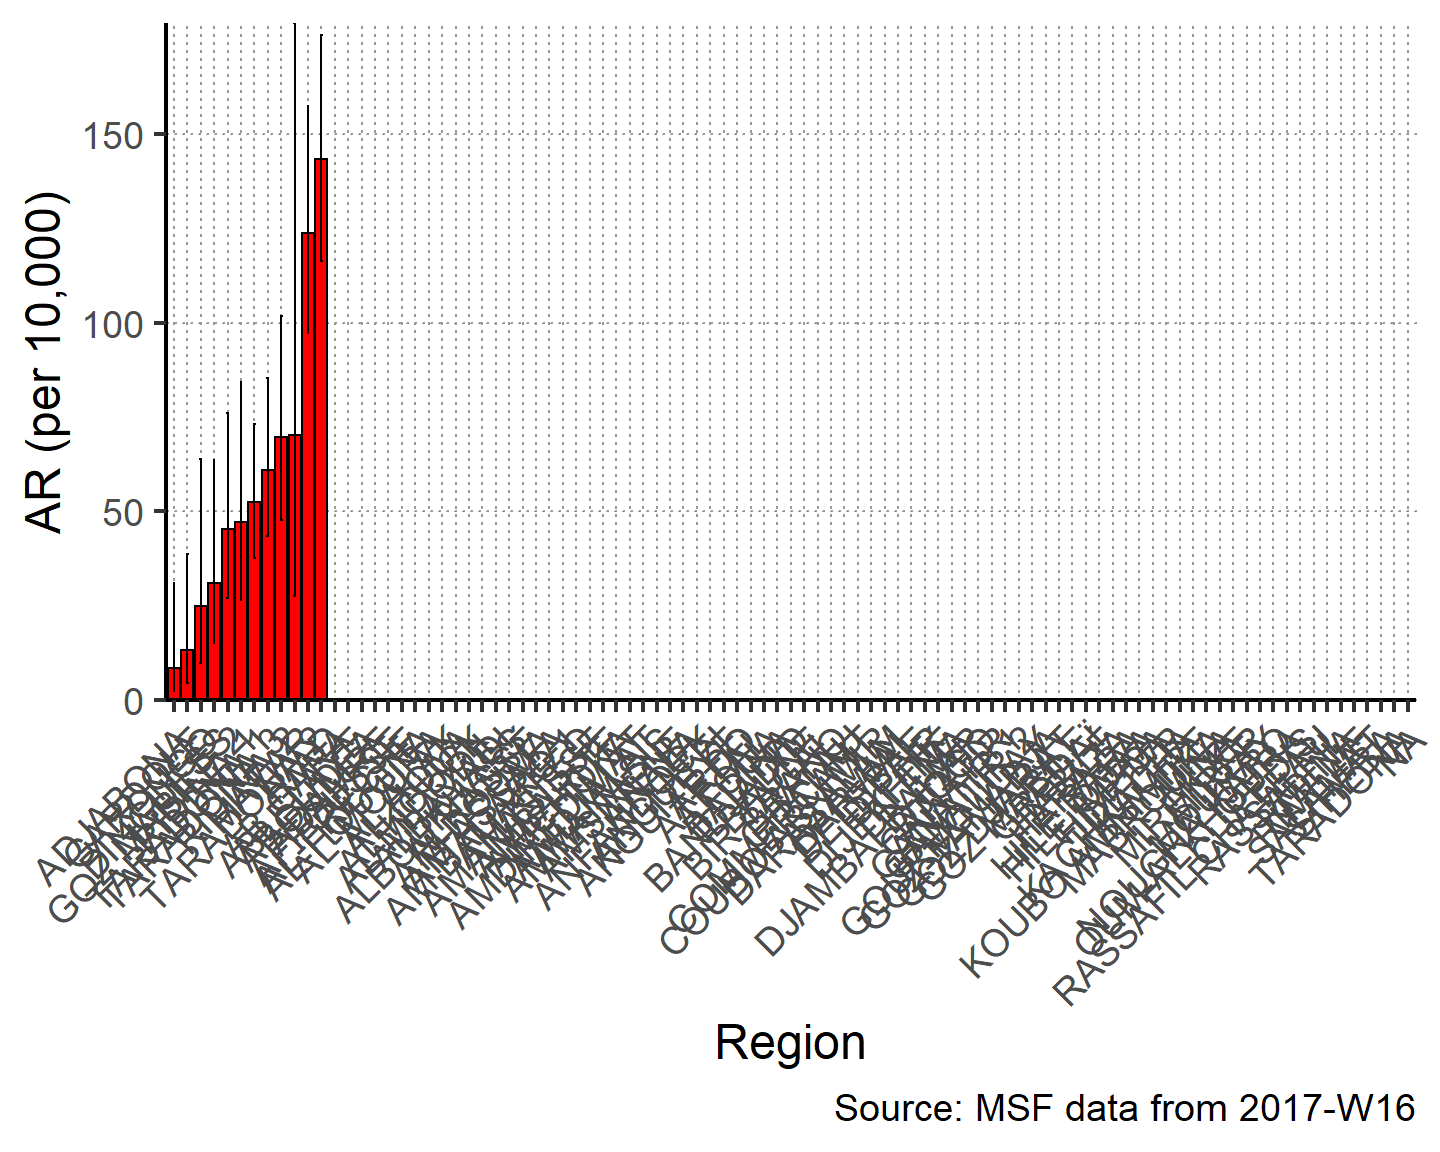
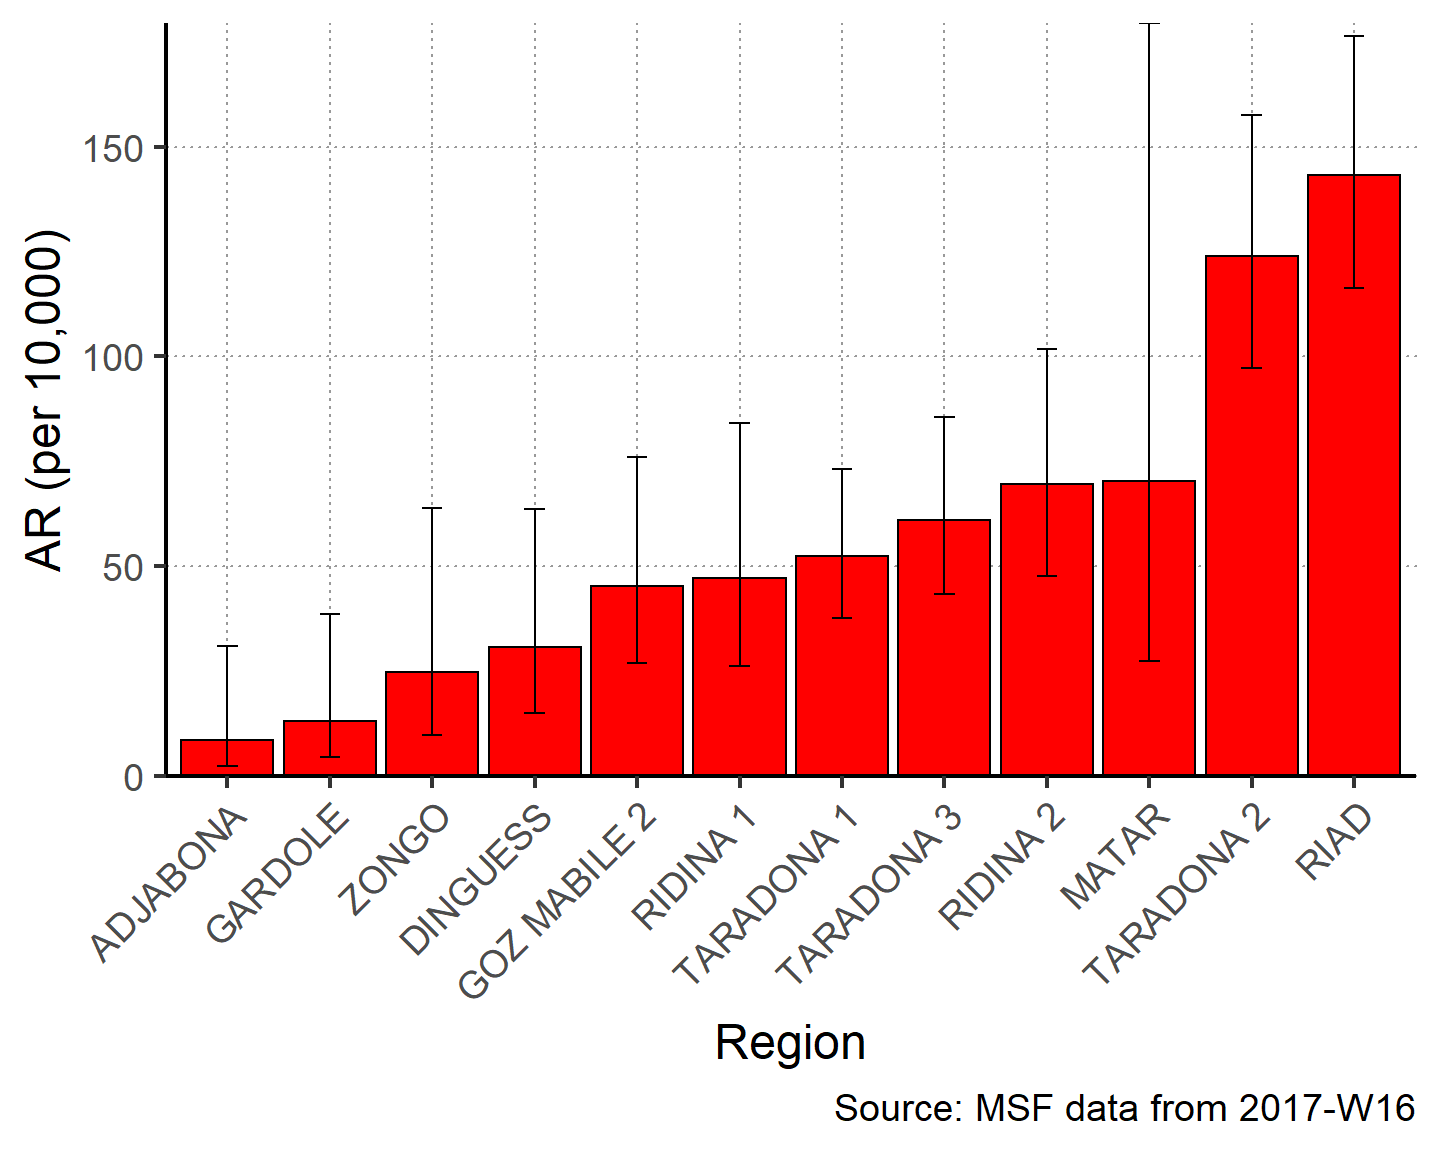
Miscellaneous small changes

diff --git a/content/training/Walk-through/place_analyses.html b/content/training/Walk-through/place_analyses.html
@@ -7,8 +7,8 @@ weight: 14
 
 
 <p>TODO: introduction to place analyses</p>
-<div id="non-map-place-analyses" class="section level3">
-<h3>Non-map place analyses</h3>
+<div id="tabular-place-analyses-non-maps" class="section level3">
+<h3>Tabular place analyses (non-maps)</h3>
 <p>To get a basic <strong>descriptive table of cases by region</strong> (which in our case was originally the variable <em>quartier</em> from the raw linelist), we use tab_linelist() on the variable patient_origin, with columns by patient_facility_type (inpatient, outpatient, or missing).</p>
 <pre class="r"><code># Descriptive table of cases by region and facility type
 tab_linelist(linelist_cleaned, patient_origin, 
@@ -1541,9 +1541,8 @@ tab_linelist(filter(linelist_cleaned,
 </table>
 <p><strong>A table of attack rates by region may be useful</strong></p>
 <p><strong>First</strong>, like when we calculated attack rate by epiweek in the time_analysis section, the cases are counted by patient_origin. This list of counts is then <strong>joined</strong> to the imported population data for each region <strong>joined by patient_origin (the name of the region/quartier)</strong>. These data are stored in the object <code>cases</code>.</p>
-<p>*Recall that this <strong>join</strong> requires <strong>exact matches</strong> between patient_origin values in <code>linelist_cleaned$patient_origin</code> and <code>population_data_region$patient_origin</code> to match a region’s cases to its population (read more about joins TODO HERE). In the data cleaning steps we converted the values in linelist_cleaned to all capital letters to match those in population_data_region.</p>
-<p><strong>TODO - Note: the attack_rate function currently does not show cases in the table if there is no population denominator. For example, the table below shows TARADONA quartier with no cases, when in reality it has 235. Also, for those regions with no cases or no population, the attack rate defaults to 10,000 - which is obviously not true.</strong></p>
-<p>The “ar” object saves the counts, population, and attack rate calculations along with modified column names.</p>
+<p>*Recall that this <strong>join</strong> requires <strong>exact matches</strong> between patient_origin values in <code>linelist_cleaned$patient_origin</code> and <code>population_data_region$patient_origin</code> to match a region’s cases to its population (read more about joins in the advanced R Basics page). In the data cleaning steps we converted the values in linelist_cleaned to all capital letters to match those in population_data_region.<br />
+The “ar” object saves the counts, population, and attack rate calculations along with modified column names.</p>
 <p>Finally, the table is created with kable() and displayed.</p>
 <pre class="r"><code>## - [ ] consider facet wrapping by an overarching unit if have many regions (e.g. by province)
 cases &lt;- count(linelist_cleaned, patient_origin) %&gt;%   # cases for each region
@@ -2227,8 +2226,11 @@ ar %&gt;%
 </tbody>
 </table>
 <p>You could then also plot this on a bar chart with confidence intervals.</p>
-<p><strong>TODO: Note: Until the bug in attack_rate() is fixed, the bar chart will not appear correctly, as it shows all the regions that are missing attack rates as having ARs of 10,000.</strong></p>
-<pre class="r"><code># plot with the region on the x axis sorted by increasing ar
+<p><em>Note: There are many quartiers without population denominators that will make the graph difficult to read. Thus, we first filter <code>ar</code> to remove those using the opposite (!) of the is.na() function (see R Basics page on operators). Note that if this step is added, any quartiers with missing denominators will not appear in the graph.</em></p>
+<pre class="r"><code># filter ar for non-zero quartiers
+ar &lt;- filter(ar, !is.na(`AR (per 10,000)`))
+
+# plot with the region on the x axis sorted by increasing ar
 # ar value on the y axis 
 ggplot(ar, aes(x = reorder(Region, `AR (per 10,000)`),
                y = `AR (per 10,000)`)) + 
@@ -2239,8 +2241,6 @@ ggplot(ar, aes(x = reorder(Region, `AR (per 10,000)`),
   labs(x = &quot;Region&quot;, y = &quot;AR (per 10,000)&quot;, 
        captions = paste0(&quot;Source: MSF data from &quot;, reporting_week)) + 
   epicurve_theme</code></pre>
-<pre><code>## Warning: Removed 81 rows containing missing values (position_stack).</code></pre>
-<pre><code>## Warning: Removed 81 rows containing missing values (geom_errorbar).</code></pre>
 <p><img src="/training/Walk-through/place_analyses_files/figure-html/bar_attack_rate_by_region-1.png" width="720" /></p>
 <p>You could also <strong>table mortality rate by region</strong>. A few things to note:</p>
 <ul>
@@ -2248,7 +2248,6 @@ ggplot(ar, aes(x = reorder(Region, `AR (per 10,000)`),
 </li>
 <li>The mortality_rate() step calculates mortality rates for the regions that had a death.</li>
 </ul>
-<p><strong>TODO: Note: The table only shows the regions that had a death, but there is a bug and the deaths show as missing if there is no population denominator.</strong></p>
 <pre class="r"><code>deaths &lt;- group_by(linelist_cleaned, patient_origin) %&gt;%
   filter(grepl(&quot;Died&quot;, exit_status2)) %&gt;% 
   summarise(deaths = n()) %&gt;% # count deaths by region
@@ -2439,8 +2438,6 @@ ggplot() +
   scale_fill_brewer(drop = FALSE, palette = &quot;OrRd&quot;, name = &quot;AR (per 10,000)&quot;) + 
   geom_sf_text(data = mapsub, aes(label = Name), colour = &quot;grey50&quot;) + # label polygons
   theme_void() # remove coordinates and axes</code></pre>
-<pre><code>## Warning in st_point_on_surface.sfc(sf::st_zm(x)): st_point_on_surface may
-## not give correct results for longitude/latitude data</code></pre>
 <p><img src="/training/Walk-through/place_analyses_files/figure-html/unnamed-chunk-6-1.png" width="720" /></p>
 <p>Lastly, <strong>there is an efficient way to create attack rate maps and bar plots of incidence for each epiweek</strong>. Use a <strong>“for loop”</strong> to run the same code for every epi week.</p>
 <p><strong>A for loop is used to iterate over (perform the same actions to) every value in a vector.</strong> In this case, we want to make the map and bar chart for each region. You can read more about for loops in the Advanced section of the R Basics pages, or <a href="">here</a>.</p>
@@ -2532,22 +2529,6 @@ for (i in unique(cases$epiweek)) {
     )
   )
 }</code></pre>
-<pre><code>## Warning: Removed 80 rows containing missing values (position_stack).</code></pre>
-<pre><code>## Warning: Removed 81 rows containing missing values (geom_errorbar).</code></pre>
-<pre><code>## Warning: Removed 80 rows containing missing values (position_stack).</code></pre>
-<pre><code>## Warning: Removed 81 rows containing missing values (geom_errorbar).</code></pre>
-<p><img src="/training/Walk-through/place_analyses_files/figure-html/unnamed-chunk-7-1.png" width="720" /></p>
-<pre><code>## Warning: Removed 80 rows containing missing values (position_stack).
-
-## Warning: Removed 81 rows containing missing values (geom_errorbar).</code></pre>
-<p><img src="/training/Walk-through/place_analyses_files/figure-html/unnamed-chunk-7-2.png" width="720" /></p>
-<pre><code>## Warning: Removed 80 rows containing missing values (position_stack).
-
-## Warning: Removed 81 rows containing missing values (geom_errorbar).</code></pre>
-<p><img src="/training/Walk-through/place_analyses_files/figure-html/unnamed-chunk-7-3.png" width="720" /></p>
-<pre><code>## Warning: Removed 80 rows containing missing values (position_stack).
-
-## Warning: Removed 81 rows containing missing values (geom_errorbar).</code></pre>
-<p><img src="/training/Walk-through/place_analyses_files/figure-html/unnamed-chunk-7-4.png" width="720" /><img src="/training/Walk-through/place_analyses_files/figure-html/unnamed-chunk-7-5.png" width="720" /><img src="/training/Walk-through/place_analyses_files/figure-html/unnamed-chunk-7-6.png" width="720" /></p>
+<p><img src="/training/Walk-through/place_analyses_files/figure-html/unnamed-chunk-7-1.png" width="720" /><img src="/training/Walk-through/place_analyses_files/figure-html/unnamed-chunk-7-2.png" width="720" /><img src="/training/Walk-through/place_analyses_files/figure-html/unnamed-chunk-7-3.png" width="720" /><img src="/training/Walk-through/place_analyses_files/figure-html/unnamed-chunk-7-4.png" width="720" /><img src="/training/Walk-through/place_analyses_files/figure-html/unnamed-chunk-7-5.png" width="720" /><img src="/training/Walk-through/place_analyses_files/figure-html/unnamed-chunk-7-6.png" width="720" /></p>
 </div>
 </div>

diff --git a/content/training/Walk-through/clean_data.html b/content/training/Walk-through/clean_data.html
@@ -102,8 +102,8 @@ linelist_cleaned$age_group_mon &lt;- age_categories(linelist_cleaned$age_months,
 linelist_cleaned$age_group &lt;- age_categories(linelist_cleaned$age_years, 
                                              breakers = c(0, 3, 15, 30, 45))</code></pre>
 </div>
-<div id="cleaning-categorical-variables" class="section level3">
-<h3>Cleaning categorical variables</h3>
+<div id="clean-categorical-variables" class="section level3">
+<h3>Clean categorical variables</h3>
 <p>While the template directs us to next create a DIED variable based on exit_status containing the characters “Dead”, we must first <strong>clean our exit_status variable, which is currrently in French</strong>.</p>
 <p><strong>Use case_when() to assign new values for a new exit_status2 variable</strong>, as in the code below. The code uses the function case_when() to re-define linelist_cleaned as itself, but mutated to include the new variable exit_status2. The values in exit_status2 are based on the values in exit_status, such that when exist_status == “Décédé”, the value in exit_status2 is “Died”, and so on.</p>
 <p>As you modify this chunk for your own situation, remember to include commas at the end of each case_when() line (except the last one), and that <strong>each left-hand side (LHS) of the ~ must be a logical statement</strong>, not just a value. Best is to write case_when() lines from most specific at top to most general at bottom. You can read more about case_when() <a href="https://dplyr.tidyverse.org/reference/case_when.html">here</a>.</p>

diff --git a/content/training/Walk-through/dataset_alignment.html b/content/training/Walk-through/dataset_alignment.html
@@ -54,7 +54,7 @@ colnames(linelist_cleaned) &lt;- cleaned_colnames</code></pre>
 then you likely forgot to comment (#) the line for a variable you did not use.</p>
 <p>And now you can see the result:</p>
 <p><img src="/images/AJS_Rename_Variables_Proof.png" alt="rename variables proof", width = "100%"></p>
-<p>Below are the variable assignments used in this example, to reference when building your template. You can copy the entire code chunk using the copy icon in the top-right corner.</p>
+<p>Below is the code for the variable assignments used in this example. You can use or reference this when building your template. <strong>You can copy the entire code chunk using the copy icon in the top-right corner.</strong></p>
 <pre class="r"><code>## Below are the column assignments used in this case study example
 
 linelist_cleaned &lt;- rename(linelist_cleaned,

diff --git a/content/training/Walk-through/_index.en.md b/content/training/Walk-through/_index.en.md
@@ -3,12 +3,11 @@ title: Case study walk-through
 ---
 
 
-Welcome to the walk-through homepage. 
+Please click onward to read about the case study. 
 
 {{% notice info %}}
 
-<b> THIS IS STILL A WORK IN PROGRESS. </b> Please check back soon as we will
-be adding more content in the coming weeks.
+<b> THIS IS STILL A WORK IN PROGRESS. </b> 
 
 {{% /notice %}}
 
